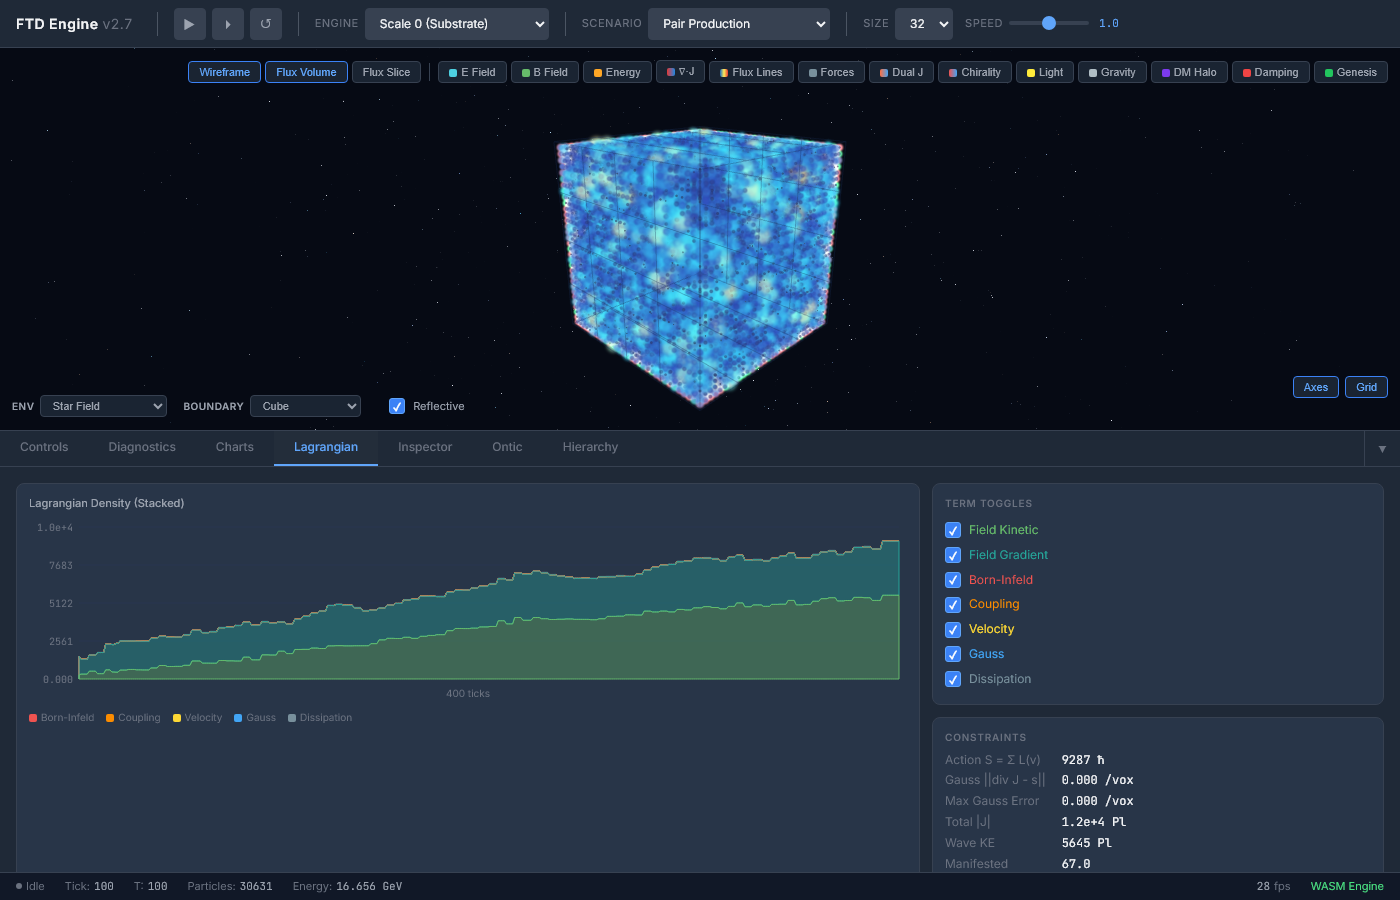
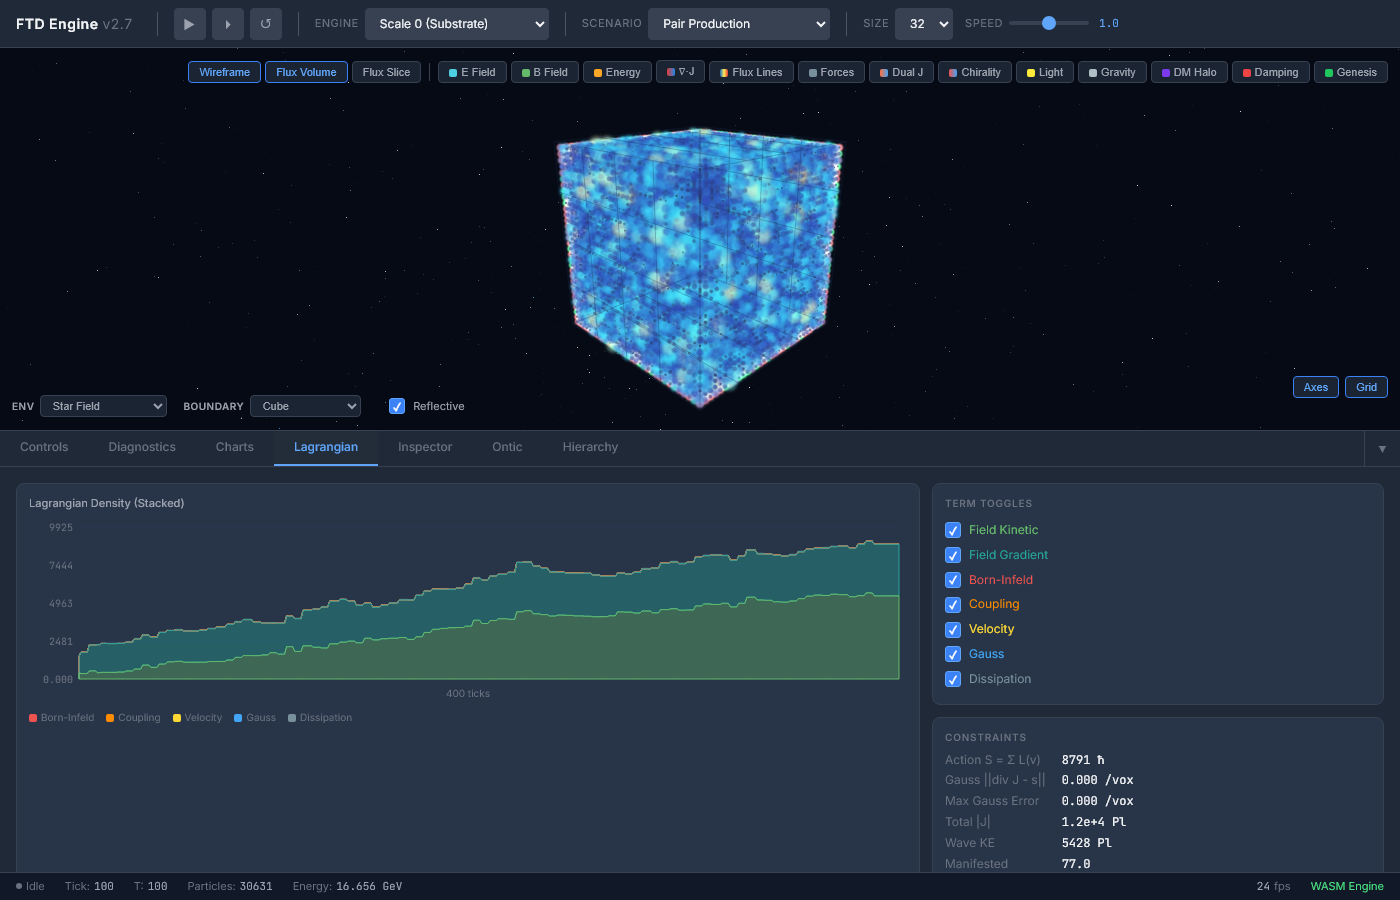
docs: replace README gallery with Scales 0-3 only
Remove consciousness screenshots. Add dipole, pair production,
hydrogen atom, water pentamer, NaCl crystal, and benzene shots.
8 screenshots covering the accessible physics scales.

diff --git a/README.md b/README.md
@@ -279,39 +279,47 @@ Compiles to WASM via Emscripten. Three.js dashboard with 211 scenarios across 4 
 
 ## Interactive Engine Gallery
 
-The browser-based simulation engine runs the FTD Lagrangian in real time across five scales of physical reality.
+The browser-based simulation engine runs the FTD Lagrangian in real time across four scales of physical reality. Launch with `python -m http.server 8080 -d engine/web` and open [localhost:8080](http://localhost:8080).
 
 ### Scale 0 — Substrate Lattice
 
-4-source interference on the 32^3 cubic lattice with energy density heatmap (blue = low, red = high). Each voxel carries state s in {-1, 0, +1} and flux J in R^3, updated every tick via the 6-phase cycle.
+Flux dipole on the 32^3 cubic lattice. Each voxel carries state s in {-1, 0, +1} and flux J in R^3, updated every tick via the 6-phase cycle. E-field and flux line overlays show the emergent electromagnetic structure.
 
-![Scale 0: 4-Source Interference](engine/web/screenshots/scale0_interference.png)
+![Scale 0: Flux Dipole](engine/web/screenshots/scale0_dipole.png)
 
-Pair production with the Lagrangian density inspector showing the stacked contributions: field kinetic, gradient, Born-Infeld, coupling, velocity, Gauss, and dissipation terms.
+Pair production with energy density heatmap (blue = low, red = high). Particles manifest when |J| exceeds the threshold K_B = 0.511.
+
+![Scale 0: Pair Production](engine/web/screenshots/scale0_pair_production.png)
+
+The Lagrangian density inspector shows the stacked contributions in real time: field kinetic, gradient, Born-Infeld, coupling, velocity, Gauss constraint, and dissipation terms.
 
 ![Scale 0: Lagrangian Inspector](engine/web/screenshots/scale0_lagrangian.png)
 
+### Scale 1 — Particles
+
+Hydrogen atom (proton + electron) with Coulomb binding, orbital trails, and Velocity Verlet integration. The particle engine computes analytical EM forces from the FTD coupling alpha = 1/137.036.
+
+![Scale 1: Hydrogen Atom](engine/web/screenshots/scale1_hydrogen.png)
+
 ### Scale 2 — Atoms
 
-NaCl crystal lattice with alternating Na/Cl atoms, orbital electron clouds, and ionic Coulomb forces. The substructure panel shows protons, neutrons, and orbital shells.
+Water pentamer (5 H2O molecules) showing orbital electron clouds, hydrogen bonding, and Van der Waals interactions. The substructure panel tracks protons, neutrons, and orbital shells for each element.
 
-![Scale 2: NaCl Crystal](engine/web/screenshots/scale2_water_pentamer.png)
+![Scale 2: Water Pentamer](engine/web/screenshots/scale2_water_pentamer.png)
+
+NaCl 3x3 crystal lattice with alternating Na/Cl atoms and ionic Coulomb forces. 138 atomic scenarios available from single hydrogen to multi-element clusters.
+
+![Scale 2: NaCl Crystal](engine/web/screenshots/scale2_nacl_crystal.png)
 
 ### Scale 3 — Molecules
 
-Caffeine molecule (C8H10N4O2) with auto-bonding, Van der Waals forces, orbital clouds, and element labels. 27 molecules available from H2 to NaCl crystals.
+Benzene (C6H6) with auto-bonding, orbital clouds, and the hexagonal ring structure. Bond springs and Van der Waals forces maintain molecular geometry.
+
+![Scale 3: Benzene](engine/web/screenshots/scale3_benzene.png)
+
+Caffeine (C8H10N4O2) — one of 27 molecules available from H2 to NaCl crystals and DNA bases.
 
 ![Scale 3: Caffeine](engine/web/screenshots/scale3_caffeine.png)
-
-### Scale 4 — Consciousness
-
-Holographic humanoid figure in self-reference mode (sLoop depth 1) with the consciousness diagnostics panel showing the master quadratic's complex roots, phase angle theta_C = 52.54 degrees, observable fraction 37%, and Mandelbrot boundary orbit.
-
-![Scale 4: Consciousness](engine/web/screenshots/scale4_consciousness.png)
-
-The new Theory sub-tab provides 6 interactive pedagogical visualizations: Master Quadratic phase diagram, Complex Plane consciousness roots, Existence Filter projection hierarchy, ReLU crystallization, Von Neumann chain cascade, and Observer Boundary accumulation.
-
-![Scale 4: Theory Panels](engine/web/screenshots/scale4_theory.png)
 
 ---
 
